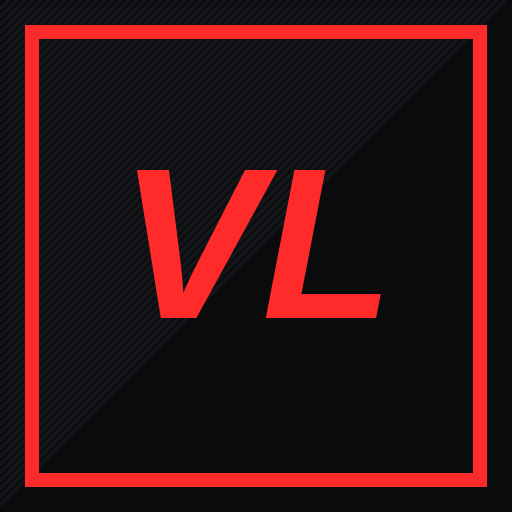
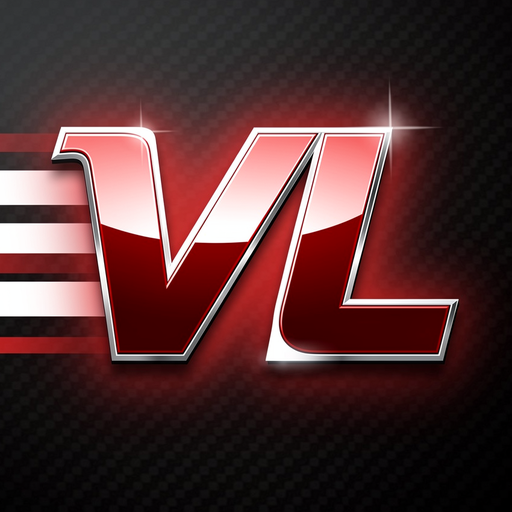
Velocity Legends v1.21
Claude-Session: https://claude.ai/code/session_01P5DsPZLe8PEQPzm7RA9AjZ

diff --git a/js/carmodel.js b/js/carmodel.js
@@ -20,7 +20,7 @@ function prepare(root, wheelRx) {
   // bake transforms; merge everything that shares a material into one mesh (far fewer draw calls). Wheel parts stay separate so they can spin.
   const groups = new Map();
   for (const m of meshes) { const g = m.geometry.clone(); g.applyMatrix4(m.matrixWorld); g.translate(-ctr.x, -box.min.y, -ctr.z);
-    const mn = [].concat(m.material).map(x => x && x.name || '').join('|'); const isW = !!(wheelRx && (wheelRx.test(mn) || wheelRx.test(m.name)));
+    const mn = [].concat(m.material).map(x => x && x.name || '').join('|'); const isW = !!(wheelRx && (wheelRx.test(mn) || wheelRx.test(m.name) || (m.parent && wheelRx.test(m.parent.name))));
     if (Array.isArray(m.material)) { const n = new THREE.Mesh(g, m.material); n.name = m.name; n.userData.wheel = isW; flat.add(n); continue; }
     for (const k of Object.keys(g.attributes)) { const at = g.attributes[k]; if (!['position', 'normal', 'uv', 'uv1', 'tangent', 'color'].includes(k)) g.deleteAttribute(k); else if (at.isInterleavedBufferAttribute) g.setAttribute(k, at.clone()); }
     const key = (isW ? 'W|' : '') + m.material.uuid + '|' + Object.keys(g.attributes).sort().join(',') + '|' + !!g.index; if (!groups.has(key)) groups.set(key, { mat: m.material, list: [], name: m.name, w: isW }); groups.get(key).list.push(g); }
@@ -41,14 +41,14 @@ export function setFinish(m, f = 'metal') {
 // split one wheel mesh (often all four wheels in one mesh) into four pivots by quadrant
 function splitWheels(mesh, Lz) {
   const g = mesh.geometry.index ? mesh.geometry.toNonIndexed() : mesh.geometry; const pos = g.attributes.position; const n = pos.count / 3;
-  const quads = [[], [], [], []]; const tmp = new V3();
-  for (let t = 0; t < n; t++) { tmp.set(0, 0, 0); for (let k = 0; k < 3; k++) { tmp.x += pos.getX(t * 3 + k); tmp.z += pos.getZ(t * 3 + k); } const q = (tmp.x > 0 ? 1 : 0) + (tmp.z > 0 ? 2 : 0); quads[q].push(t); }
+  const quads = [[], [], [], [], []]; const tmp = new V3();
+  for (let t = 0; t < n; t++) { tmp.set(0, 0, 0); for (let k = 0; k < 3; k++) { tmp.x += pos.getX(t * 3 + k); tmp.z += pos.getZ(t * 3 + k); } const q = Math.abs(tmp.x / 3) < 0.35 ? 4 : (tmp.x > 0 ? 1 : 0) + (tmp.z > 0 ? 2 : 0); quads[q].push(t); } /* 4 = on the centre line (spare wheel) → stays fixed */
   const out = [];
-  for (let q = 0; q < 4; q++) {
+  for (let q = 0; q < 5; q++) {
     if (!quads[q].length) continue; const ng = new THREE.BufferGeometry();
     for (const [name, attr] of Object.entries(g.attributes)) { const sz = attr.itemSize, arr = new attr.array.constructor(quads[q].length * 3 * sz); let o = 0; for (const t of quads[q]) for (let k = 0; k < 3; k++) for (let c = 0; c < sz; c++) arr[o++] = attr.array[(t * 3 + k) * sz + c]; ng.setAttribute(name, new THREE.BufferAttribute(arr, sz, attr.normalized)); }
     ng.computeBoundingBox(); const c = ng.boundingBox.getCenter(new V3()); ng.translate(-c.x, -c.y, -c.z);
-    out.push({ q, c, geo: ng, front: c.z > 0 });
+    out.push({ q, c, geo: ng, front: c.z > 0, fixed: q === 4 });
   }
   return out;
 }
@@ -86,7 +86,7 @@ export async function buildCar(id, opts = {}) {
     for (const m of wm) {
       const g = m.geometry.clone(); g.applyMatrix4(m.matrixWorld); // car space
       const parts = splitWheels(new THREE.Mesh(g), C.len);
-      for (const p of parts) { const key = p.q; if (!groups[key]) { const pivot = new THREE.Group(); const steer = new THREE.Group(); steer.add(pivot); groups[key] = { steer, pivot, c: p.c.clone(), n: 0, front: p.front, r: 0 }; body.add(steer); }
+      for (const p of parts) { if (p.fixed) { const sm = new THREE.Mesh(p.geo, rimMat(m.material)); sm.position.copy(p.c); body.add(sm); continue; } const key = p.q; if (!groups[key]) { const pivot = new THREE.Group(); const steer = new THREE.Group(); steer.add(pivot); groups[key] = { steer, pivot, c: p.c.clone(), n: 0, front: p.front, r: 0 }; body.add(steer); }
         const G = groups[key]; const off = p.c.clone().sub(G.c); const mesh = new THREE.Mesh(p.geo, rimMat(m.material)); mesh.position.copy(off); mesh.castShadow = !opts.lo; G.pivot.add(mesh); p.geo.computeBoundingBox(); G.r = Math.max(G.r, (p.geo.boundingBox.max.y - p.geo.boundingBox.min.y) / 2); }
       m.removeFromParent();
     }

diff --git a/js/data.js b/js/data.js
@@ -1,5 +1,5 @@
 // Velocity Legends — game data: cars, tracks, disciplines, upgrades, paints
-export const VERSION = '1.20';
+export const VERSION = '1.21';
 
 // Car stats: hp (power), kg (mass), top (km/h top speed), grip (lateral g on tarmac), aero (downforce factor), brake (g), steer (lock rad),
 // wb (wheelbase m), len (model length m), drive ('rwd'|'awd'), loose (grip multiplier on dirt), cyl (engine sound), redline (rpm), gears
@@ -19,7 +19,7 @@ export const CARS = [
   { id: 'fxxk', n: 'Rosso XX Evo', cls: 'gt', origin: 'Italy', price: 150000, hp: 1036, kg: 1165, top: 350, grip: 1.6, aero: 1.5, brake: 1.65, steer: 0.55, wb: 2.65, len: 4.90, drive: 'rwd', loose: 0.45, cyl: 12, redline: 9200, gears: 7,
     f: 'fxxk', ry: 0, paint: /CARPAINT_Base/i, wheel: /Rim_Base|Rim_Blur|TYRE|DISK_BRAKE/i, col: '#c1121f', desc: 'The rarest track weapon money can buy.' },
   { id: 'rsr', n: 'Stuttgart 911 RSR', cls: 'gt', origin: 'Germany', price: 0, hp: 515, kg: 1245, top: 300, grip: 1.45, aero: 1.1, brake: 1.5, steer: 0.55, wb: 2.46, len: 4.57, drive: 'rwd', loose: 0.55, cyl: 6, redline: 9400, gears: 6,
-    f: 'rsr', ry: 0, paint: /part11|21Mtl/i, wheel: /rim191/i, col: '#f4f4f4', desc: 'Le Mans GT racer. Light, loud, balanced.' },
+    f: 'rsr', ry: 0, paint: /part11|21Mtl/i, wheel: /^Object_2[2-5]$/, col: '#f4f4f4', desc: 'Le Mans GT racer. Light, loud, balanced.' },
   // ---------- FORMULA ----------
   { id: 'w13', n: 'Silver Arrow W-13', cls: 'formula', origin: 'Germany', price: 0, hp: 1000, kg: 798, top: 345, grip: 1.9, aero: 2.4, brake: 2.2, steer: 0.42, wb: 3.6, len: 5.5, drive: 'rwd', loose: 0.35, cyl: 6, redline: 13000, gears: 8,
     f: 'w13', ry: Math.PI, paint: /Body_Main|Body_Wings/i, wheel: /Tyre|WheelHub/i, col: '#bfc5c9', desc: 'Ground-effect F1 machine. Pure downforce.', open: true },
@@ -27,7 +27,7 @@ export const CARS = [
     f: 'mcl35', ry: 0, paint: /mcl35m_png|mcl35m_c/i, wheel: /rim_png|tyrewall|tread/i, col: '#ff8000', desc: 'Papaya-orange F1 car with razor-sharp turn-in.', open: true },
   // ---------- RALLY ----------
   { id: 'yaris', n: 'Kaze GR Rally1', cls: 'rally', origin: 'Japan', price: 0, hp: 500, kg: 1260, top: 220, grip: 1.15, aero: 0.4, brake: 1.25, steer: 0.62, wb: 2.63, len: 4.2, drive: 'awd', loose: 0.92, cyl: 4, redline: 8000, gears: 6,
-    f: 'yaris', ry: 0, paint: /car_paint/i, wheel: /x^/, col: '#e8e8e8', desc: 'Hybrid WRC weapon built for gravel and jumps.' },
+    f: 'yaris', ry: 0, paint: /car_paint/i, wheel: /^Object_(11|14|17|20)$/, col: '#e8e8e8', desc: 'Hybrid WRC weapon built for gravel and jumps.' },
   { id: 'delta', n: 'Integra Delta Evo II', cls: 'rally', origin: 'Italy', price: 30000, hp: 420, kg: 1150, top: 215, grip: 1.1, aero: 0.3, brake: 1.2, steer: 0.62, wb: 2.48, len: 3.9, drive: 'awd', loose: 0.9, cyl: 4, redline: 7500, gears: 5,
     f: 'delta', ry: 0, paint: /^Paint$/i, wheel: /rim|Tire/i, col: '#d40000', desc: 'Legendary boxy rally champion.' },
   // ---------- OFF-ROAD ----------

diff --git a/index.html b/index.html
@@ -5,7 +5,7 @@
 <title>Velocity Legends — Ultra Racing</title>
 <meta name="description" content="Velocity Legends: free browser racing game with photo-real hypercars, Formula cars, rally and off-road trucks. Grand Prix, night street, coast, desert and forest tracks.">
 <meta name="theme-color" content="#07080a">
-<link rel="manifest" href="manifest.webmanifest"><meta name="mobile-web-app-capable" content="yes"><meta name="apple-mobile-web-app-capable" content="yes"><meta name="apple-mobile-web-app-status-bar-style" content="black-translucent"><meta name="apple-mobile-web-app-title" content="Velocity"><link rel="apple-touch-icon" href="assets/ui/icon192.png">
+<link rel="manifest" href="manifest.webmanifest"><meta name="mobile-web-app-capable" content="yes"><meta name="apple-mobile-web-app-capable" content="yes"><meta name="apple-mobile-web-app-status-bar-style" content="black-translucent"><meta name="apple-mobile-web-app-title" content="Velocity"><link rel="apple-touch-icon" href="assets/ui/apple-icon.png"><link rel="icon" type="image/png" href="assets/ui/fav.png">
 <link rel="preconnect" href="https://fonts.googleapis.com"><link rel="preconnect" href="https://fonts.gstatic.com" crossorigin>
 <link href="https://fonts.googleapis.com/css2?family=Exo+2:ital,wght@0,600;0,800;1,800;1,900&family=Rajdhani:wght@500;600;700&family=Orbitron:wght@600;800&display=swap" rel="stylesheet">
 <link rel="stylesheet" href="css/vl.css">

diff --git a/js/install.js b/js/install.js
@@ -45,8 +45,8 @@ export async function ensureInstalled() {
     const failed = await fetchAll(need.filter(f => done[f[0]] !== f[2]), cache, base, done, show);
     if (!failed) break;
     d.querySelector('#instTxt').textContent = `Download interrupted (${failed} file${failed > 1 ? 's' : ''} left). Check the internet and tap RETRY.`;
-    const r = d.querySelector('#instRetry'), s = d.querySelector('#instSkip'); r.style.display = s.style.display = '';
-    const skip = await new Promise(res => { r.onclick = () => res(false); s.onclick = () => res(true); }); r.style.display = s.style.display = 'none';
+    const r = d.querySelector('#instRetry'), s = d.querySelector('#instSkip'); r.style.display = ''; /* install is mandatory: no skip */
+    const skip = await new Promise(res => { r.onclick = () => res(false); setTimeout(() => res(false), 15000); }); r.style.display = 'none'; /* auto-retry every 15 s */
     if (skip) break; d.querySelector('#instTxt').textContent = 'Resuming download…';
   }
   bar.style.width = '100%'; pc.textContent = '100%'; d.querySelector('#instTxt').textContent = 'Installed. The game now loads from this device.';
